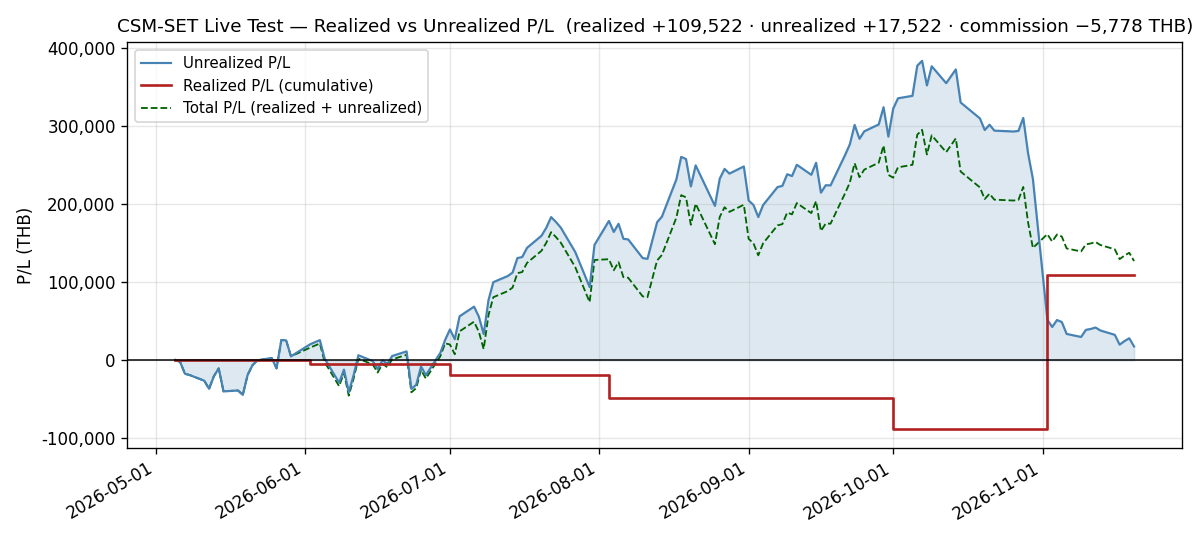
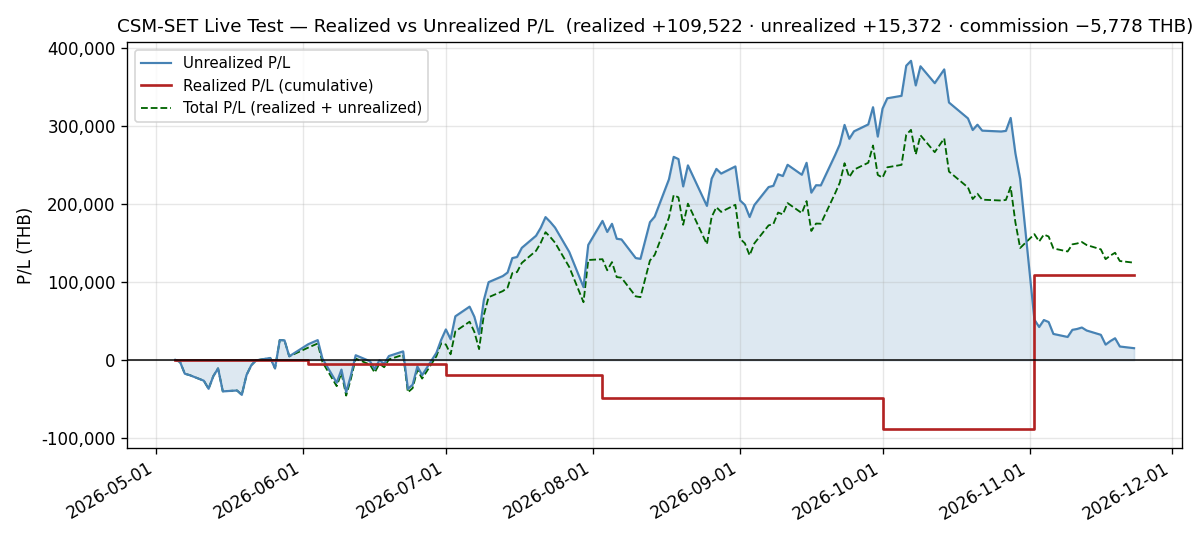
docs(live-test): add daily log for 2026-11-23 (scored session 16 of 40)
NAV 1,243,283.32 THB, -2,150.00 (-0.1726%); window -1.4956%. Six names
rose and four fell; CNT fell -18.67%, its largest one-session fall in the
panel, and INSET -8.60%. The breaker stays TRIPPED at a rolling drawdown of
-12.0412%, the deepest in the published NAV series; the regime stays BEAR.
No holiday poll banked on 2026-11-21, and the longest gap between banked
polls is now 45 h 30 m. pnl.csv row and the P/L chart regenerated; the three
NAV charts are byte-identical.

Claude-Session: https://claude.ai/code/session_01VKyqnmKmz6Hh9ErHRFMhFr

diff --git a/docs/live-test/daily/2026-11-23.md b/docs/live-test/daily/2026-11-23.md
@@ -1,0 +1,285 @@
+# Daily Log — 2026-11-23 (Monday)
+
+**As of:** 2026-11-23, Asia/Bangkok
+**Phase:** D — Final Evaluation & Documentation
+**Day:** 138 / 24 trading days remaining in 2026
+**Status:** 🟢 **SCORED — session 16 of 40 in the registered window** (`reports/2026-10-27-forward-scoring-pre-registration.md`). **NAV closes at 1,243,283.32 THB, −2,150.00 (−0.1726%) on the session and −1.4956% on NAV₀ = 1,262,159.89**, its lowest close since 2026-08-11. **Six names rose and four fell**; ⚠ **CNT fell −18.67%**, its largest one-session fall in the panel, and INSET −8.60%. 🔴 **The circuit breaker stays TRIPPED**, its rolling drawdown deepening to **−12.0412%**, the deepest in the published NAV series. 🔴 **The regime stays BEAR**; the SET rose +0.0833%. 🟢 **The fifth scheduled refresh on image `239921e2a7bd` ran clean** (211 / 0), and no bound fired. ⚠ **103 of 911 holiday polls banked** since the settfex 0.26.3 upgrade; none banked on 2026-11-21, and the longest gap is now **45 h 30 m** (Risk Note 7). Total Return on NAV is **+11.01%**.
+
+---
+
+## Execution Summary
+
+**No trades today.** The book is the one recorded from the 2026-11-02 rotation (`configs/live_portfolio.yaml` at `2f846b0`), unchanged since. Realized P/L for the session is **0.00 THB** and no commission was paid. **The breaker's safe mode acts only at a month-end evaluation**, so equity at 17.3014% of NAV creates no trade. The next evaluation is **2026-11-30** (registration §3).
+
+---
+
+## Portfolio Snapshot
+
+> 🟢 **Every figure in this section is SCORED-WINDOW data, session 16.** It is `configs/live_portfolio.yaml` at `2f846b0` repriced against the 2026-11-23 bar of `data/processed/prices_latest.parquet`, and it **equals** the `db_gateway.daily_performance` row the 18:00 refresh wrote.
+
+`Avg Cost` is the commission-inclusive per-share basis carried from `configs/live_portfolio.yaml` (4-decimal precision); `Cost Basis = shares × Avg Cost`, and `U.PL % = MV / Cost Basis − 1`.
+
+| # | Symbol | Shares | Avg Cost | Last Price | Market Value (THB) | Cost Basis (THB) | U.PL % |
+|---|--------|-------:|---------:|-----------:|--------------------:|-----------------:|-------:|
+| 1 | IRPC | 11,300 | 2.3037 | 2.18 | 24,634.00 | 26,031.81 | −5.37% |
+| 2 | HANA | 600 | 35.8070 | 45.50 | 27,300.00 | 21,484.20 | +27.07% |
+| 3 | GUNKUL | 6,100 | 2.9246 | 4.60 | 28,060.00 | 17,840.06 | +57.29% |
+| 4 | INSET | 8,400 | 3.0848 | 3.40 | 28,560.00 | 25,912.32 | +10.22% |
+| 5 | KCE | 500 | 39.0655 | 53.00 | 26,500.00 | 19,532.75 | +35.67% |
+| 6 | EPG | 3,400 | 5.9099 | 5.26 | 17,884.00 | 20,093.66 | −11.00% |
+| 7 | SMT | 4,000 | 5.8097 | 5.86 | 23,440.00 | 23,238.80 | +0.87% |
+| 8 | CNT | 3,600 | 3.3456 | 2.44 | 8,784.00 | 12,044.16 | −27.07% |
+| 9 | SPRC | 1,200 | 13.8232 | 12.45 | 14,940.00 | 16,587.84 | −9.93% |
+| 10 | SSP | 2,200 | 7.7129 | 6.82 | 15,004.00 | 16,968.38 | −11.58% |
+
+### Portfolio summary
+
+| Metric | Value |
+|--------|-------|
+| Total Cost Basis | 199,733.98 THB |
+| Total Market Value | 215,106.00 THB |
+| Unrealized P/L | +15,372.02 THB (+7.70%) |
+| Realized P/L (today) | 0.00 THB |
+| Realized P/L (cumulative, since inception) | **+109,521.83 THB** |
+| Commission paid (cumulative) | **−5,777.54 THB** |
+
+### Account summary
+
+| Metric | Value |
+|--------|-------|
+| Remaining Cash | 1,028,177.32 THB |
+| Total NAV | 1,243,283.32 THB |
+| Total Return on NAV | +11.01% |
+
+> **Cost-basis note:** Total Cost Basis is **199,733.98 THB**, equal to Σ per-symbol `shares × avg_cost` with a **0.00** delta, unchanged since the rotation.
+>
+> **Above/below cost: 5 up / 5 down**, the same names as on 2026-11-20. **CNT** (−27.07%), **SSP** (−11.58%), **EPG** (−11.00%), **SPRC** (−9.93%) and **IRPC** (−5.37%) are below; **SMT** (+0.87%) is just above.
+>
+> **Equity is 17.3014% of NAV** (215,106.00 of 1,243,283.32), down from 17.4442%. The breaker acts only at the month-end evaluation.
+>
+> **Total P/L check:** realized + unrealized = 109,521.83 + 15,372.02 = **+124,893.85 THB**, down from +127,043.85 by **2,150.00**, exactly the session's NAV change.
+
+---
+
+## Day-over-Day Change (vs Friday November 20)
+
+| Symbol | Nov 20 Close | Nov 23 Close | Change | Change % | MV Contribution (THB) |
+|--------|-------------:|-------------:|-------:|---------:|----------------------:|
+| KCE | 50.50 | 53.00 | +2.50 | +4.95% | +1,250.00 |
+| HANA | 43.60 | 45.50 | +1.90 | +4.36% | +1,140.00 |
+| SSP | 6.68 | 6.82 | +0.14 | +2.10% | +308.00 |
+| IRPC | 2.16 | 2.18 | +0.02 | +0.93% | +226.00 |
+| SPRC | 12.35 | 12.45 | +0.10 | +0.81% | +120.00 |
+| SMT | 5.84 | 5.86 | +0.02 | +0.34% | +80.00 |
+| EPG | 5.32 | 5.26 | -0.06 | -1.13% | -204.00 |
+| GUNKUL | 4.66 | 4.60 | -0.06 | -1.29% | -366.00 |
+| INSET | 3.72 | 3.40 | -0.32 | -8.60% | -2,688.00 |
+| CNT | 3.00 | 2.44 | -0.56 | -18.67% | -2,016.00 |
+| **Total** | | | | **-0.99%** | **-2,150.00** |
+
+**Breadth: 6 up, 4 down, 0 flat.**
+
+> The `Change %` on the Total row is the **market-value** change (−2,150.00 / 217,256.00 = −0.9896%), not the NAV change (−2,150.00 / 1,245,433.32 = −0.1726%). They differ by the cash in the NAV denominator, 82.56% of the prior session's NAV in safe mode.
+>
+> 🟢 **Every `Nov 20 Close` above is the published one, and the current panel agrees on all ten names**, so no held name was restated on this session.
+
+**Two names took the session: CNT and INSET lost −4,704.00 together, while the other eight gained +2,554.00.**
+
+- ⚠ **CNT −18.67% (−2,016.00)** is its largest one-session fall in the panel, which starts 2024-05-31 for CNT. It closed at its lowest since 2026-08-17, and its U.PL is −27.07%. The vendor's bar shows the session opening at 2.96 and trading as low as 2.40, on about 5.7 times CNT's median volume over the prior 63 sessions. Its earlier bars were not back-adjusted.
+- **INSET −8.60% (−2,688.00)** was the session's largest loss in THB, its largest fall since 2026-11-17. It closed at its lowest since 2026-06-11.
+- **KCE +4.95% (+1,250.00)** is its largest rise since 2026-11-04, and **HANA +4.36% (+1,140.00)** its largest since 2026-11-18.
+- **EPG −1.13% (−204.00)** closed at its lowest since 2026-06-10.
+- **NAV is at its lowest since 2026-08-11.**
+- **The book fell −0.1726% and the SET rose +0.0833%**, a **−0.2559pp** difference. It is a same-session arithmetic result for a book that is 82.70% cash, not a performance comparison (Market Context).
+
+No cause is stated for any of these moves; none was looked up.
+
+---
+
+## Market Context
+
+| Indicator | Value | Source |
+|-----------|-------|--------|
+| SET Index | 1,454.49 | tvkit (TradingView) |
+| SET Open / High / Low | 1,445.19 / 1,458.55 / 1,444.50 | tvkit |
+| SET 200-day SMA | 1,529.6008 | tvkit (TradingView) |
+| Regime Estimate | BEAR | SET −4.91% below SMA200 |
+
+> ⚠ **This is context, NOT a benchmark comparison, and it must not be read as one.**
+>
+> - **Different price bases.** `SET:SET` is a **price index**; the strategy series above is priced on **dividend-adjusted** bars (since `e04a292`, 2026-08-09). The difference is one-sided in the strategy's favour, and it is not small: measured 2026-09-11 over 2024-03-19 → 2026-09-10, the dividend adjustment is worth **+12.09 percentage points** on this universe, roughly **+4.8%/yr**.
+> - **No alpha, excess return or outperformance figure is computed anywhere in this log.** The registration's tracking error against this index is reported in Risk Note 1 as a risk metric (§5).
+
+---
+
+## Regime State
+
+- **Detected regime:** 🔴 **BEAR**, the sixteenth session. SET (1,454.49) is **below** SMA200 (1,529.6008) by −4.9105%.
+- **SMA200 position:** 1,529.6008, with the SET closing 75.11 points under it.
+- **3-month return:** −9.65% (window-sensitive — see Notes).
+- **The engine's own `RegimeDetector.detect()` also returns BEAR**: price below SMA200, and a 63-session return of **−9.15%** against its −5% threshold.
+- **No regime-driven action under the registration.** The regime filter is not one of the registered rules (§4). The SET closed −5.91% below its own EMA100 and −3.71% below its EMA200; both are reported and not applied.
+
+**The last six closes read 1,499.53 → 1,474.68 → 1,472.01 → 1,472.64 → 1,453.28 → 1,454.49.**
+
+- **Today:** a **+1.21 point, +0.0833%** session. The index is **−10.3213%** below the 2026-09-08 high.
+- **Range:** **14.05 points**, against 10.28 the prior session. The index opened at 1,445.19, reached 1,458.55, and closed 9.99 above its low of 1,444.50.
+- **Cushion rose −4.9438% → −4.9105%, a +0.0333pp step.** SMA200 rose to **1,529.6008** (+0.7371).
+- **A BEAR→BULL crossing needs the index 75.11 points higher**, +5.16% at today's SMA200.
+
+The 3-month figure moved from −10.38% to −9.65%, its start bar moving from 2026-08-18 (1,621.62) to 2026-08-19 (1,609.76).
+
+---
+
+## Sector Concentration
+
+Groupings are SET-official, as on 2026-11-02. The book is held at about 20% equity by the breaker's safe mode.
+
+| Sector | Market Value (THB) | % of NAV | % of stocks held | Limit (NAV) | Status |
+|--------|--------------------:|---------:|-----------------:|-------------|--------|
+| Energy & Utilities (ENERG) | 82,638 | 6.6468% | 38.4173% | 35% | OK on NAV |
+| Electronic Components (ETRON) | 77,240 | 6.2126% | 35.9079% | 35% | OK on NAV |
+| ICT | 28,560 | 2.2971% | 13.2772% | 35% | OK |
+| Construction Materials (CONMAT) | 17,884 | 1.4384% | 8.3140% | 35% | OK |
+| Construction Services (CONS) | 8,784 | 0.7065% | 4.0836% | — | below the 5% floor by ruling I5 |
+
+- **ETRON rose +0.2091pp to 6.2126%** on KCE, HANA and SMT. **ENERG still leads at 6.6468% of NAV** (+0.0346pp): SSP, IRPC and SPRC rose and GUNKUL fell. ICT −0.2119pp on INSET, CONS −0.1607pp on CNT, CONMAT −0.0139pp on EPG.
+- **The 35% cap is measured on NAV** (I2), and no sector is near it.
+- **As a share of the stocks held, ENERG is 38.42% and ETRON 35.91%.** The two hold 74.33% of the equity sleeve between them. This is recorded for context; it is not the registered measure.
+- **Every position is below the 5% floor**, between 0.7065% (CNT) and 2.2971% (INSET) of NAV. The breaker governs the band (I5), so **these are not deviations**.
+
+---
+
+## Risk Notes
+
+1. 🟢 **SCORED SESSION 16 OF 40.**
+
+   | Measure (registration §5) | Value |
+   |---|---|
+   | NAV₀ (2026-10-30 close) | 1,262,159.89 |
+   | NAV₁₅ (2026-11-20 close) | 1,245,433.32 |
+   | NAV₁₆ (2026-11-23 close) | 1,243,283.32 |
+   | r₁₆ = NAV₁₆ / NAV₁₅ − 1 | **−0.1726%** |
+   | Window return to date | **−1.4956%** |
+   | Max drawdown to date (running peak from NAV₀) | **−2.8566%** (2026-11-23, from the 2026-11-02 peak) |
+   | Annualized volatility (n = 16) | 11.01% |
+   | Sharpe, rf = 2% (n = 16) · rf = 0 | −2.29 · −2.10 |
+   | Tracking error vs `SET:SET` (n = 16) | 11.84% |
+
+   **Sixteen returns carry almost no information**, and annualizing them magnifies that. **No criterion is graded before the window ends** (2026-12-30), and §9's power statement applies to every figure here.
+2. 🟢 **DB — no restatement on this session.**
+   - **`daily_performance` equals this log.** The row reads **1,243,283.32, cash 1,028,177.32**, and today's `equity_curve` row agrees.
+   - **`daily_return` reads −0.1726%**, equal to this log's day-over-day change to within 1×10⁻¹⁹, because no held name was restated.
+   - `cumulative_return` and `combined_drawdown` both read −2.8477%. They are measured from `entry_date` 2026-11-02 on the basis restated for GUNKUL's ex-dividend date (the 2026-11-20 log, Risk Note 2), and they are not the scored series (§5). On the published basis the same span is −2.8566%, the max drawdown in Risk Note 1.
+3. 🔴 **CIRCUIT BREAKER — TRIPPED, threaded one session (I4).**
+   - **Procedure:** `DrawdownCircuitBreaker` with the recorded parameters (60 sessions, −10% trip, −5% recovery held 21 sessions), called with the state carried from 2026-11-20 (TRIPPED, recovery progress 0) on the published NAV series. It returns **TRIPPED**, rolling drawdown **−12.0412%**, equity fraction **0.20**, no transition.
+   - The drawdown deepened from −11.8891% on 2026-11-20, so it is again **the deepest in the published NAV series**. **Recovery needs it above −5%**, so the state does not move.
+   - The 2026-10-07 peak (1,413,483.89) is still the window's high.
+   - **Recovery** starts when the rolling drawdown rises above −5%, at NAV **1,342,809.70**. That is **99,526.38 (+8.0051%)** above today's NAV. From a book 17.30% in stocks, it needs the equity sleeve to rise about **46.27%**.
+   - **The 1,064,000 THB line** (5% below `starting_nav`) has NAV **+179,283.32** (14.42%) above it. Under the registration it is a reporting line and carries no action.
+4. 🔴 **REGIME — BEAR, the sixteenth session** (Regime State). Under the registration it changes nothing. The transition is recorded in `events/2026-11-02-regime-transition-bull-to-bear.md`.
+5. 🟢 **EXECUTION — CLOSED** by the operator's ruling of 2026-11-04: the operator places every order by hand (registration §12; `events/2026-11-03-rotation-orders-placed-as-limit-orders.md`). Nothing changed since.
+6. 🟢 **REFRESH — the fifth scheduled firing on image `239921e2a7bd` ran clean.** It started at 11:00:00Z and completed at 11:01:33Z with receipt 211 / 0, in 91.834 s.
+   - **No bound fired.** The container log since the image started holds no "Failed to fetch symbol" line, no "timed out" line and no "daily_refresh exceeded" line, and every symbol came back on attempt 1. [[TK-0657]]
+7. ⚠ **HOLIDAY POLL — 103 of 911 polls banked since the settfex 0.26.3 upgrade (11.3%); 43 of 332 on the current image. NONE BANKED ON 2026-11-21, AND THE LONGEST GAP IS NOW 45 h 30 m.**
+
+   | Window | Image | Poll runs | Banked | Failure lines |
+   |---|---|---:|---:|---|
+   | 2026-11-04T12:20:14Z → 2026-11-05T11:20:14Z | `db0cb596918c` | 47 | 7 | logged at DEBUG; 1 run after the saved log, not banked |
+   | 2026-11-05T11:26:33Z → 2026-11-13T11:56:33Z | `7e49ed4f6a87` | 386 | 37 | 348, all `FetchError status_code=401`; 1 run after the saved log, not banked |
+   | 2026-11-13T12:16:34Z → 2026-11-16T13:16:34Z | `5bf4e130cfd6` | 146 | 16 | 128, all `FetchError status_code=401`; 3 runs after the saved log, 1 banked and 2 not |
+   | 2026-11-16T13:22:10Z → 2026-11-23T10:52:10Z | `239921e2a7bd` | 332 | 43 | 289, all `FetchError status_code=401` |
+   | **Total** | | **911** | **103** | |
+
+   - 🔴 **No poll banked on Bangkok date 2026-11-21.** The gap between two banked polls ran **45 h 30 m**, from 2026-11-20 10:22Z to 2026-11-22 07:52Z. The previous longest was 30 h 00 m (2026-11-14 10:16Z → 2026-11-15 16:16Z). The 2026-11-20 firing read the calendar banked at the gap's start, with 21 closures, and no other refresh fell inside the gap.
+   - **The stale-table warning continues.** The container logged *"committed 2026 fallback table is STALE vs the live calendar — promote: 2026-12-16"* at the 2026-11-20 and 2026-11-23 firings. The running image predates `941f406`, which added 2026-12-16 to the committed table on 2026-11-20 on the operator's go; the warning stops when that commit reaches an image. The banked calendar, which the refresh reads, has the date.
+   - **Outside csm-set:** the platform's own market calendar still read 2026-12-16 as a trading day when checked on 2026-11-23, against a known closure that it does report. The finding was posted to `session:pm` on #461 on 2026-11-20, and it has no reply.
+   - **How banked polls are counted.** The observer's record covers the second image's first 99 runs (6 banked). After it ended on 2026-11-07T12:33:49Z, a run with no failure line counts as banked.
+   - **Runs whose log was lost** are counted when the banked calendar file decides their outcome. This is the rule adopted in the 2026-11-17 log. One run, 2026-11-16T11:46:34Z, cannot be decided and is left out.
+   - **Positive control:** the latest run before the 18:00 firing with no failure line, 09:52:10Z, matches the `captured_at` of 09:52:10Z that the firing read.
+   - **Exposure:** polls banked per Bangkok date since the upgrade (2026-11-04: 2, 2026-11-05: 5, 2026-11-06: 4, 2026-11-07: 2, 2026-11-08: 7, 2026-11-09: 3, 2026-11-10: 3, 2026-11-11: 6, 2026-11-12: 6, 2026-11-13: 8, 2026-11-14: 3, 2026-11-15: 1, 2026-11-16: 11, 2026-11-17: 10, 2026-11-18: 11, 2026-11-19: 6, 2026-11-20: 8, 2026-11-21: 0, 2026-11-22: 2, 2026-11-23: 5 to the 18:00 firing).
+8. 🟢 **INFRA — no change since 2026-11-20.**
+   - The container has run image `239921e2a7bd` since 2026-11-16 at 20:21:26 BKK. This session's refresh is its fifth.
+   - **Rollback image kept:** `rollback-20261116` → `5bf4e130cfd6`.
+   - **Not yet deployed:** `941f406` (the committed holiday table, Risk Note 7). It ships with the next image build; none is planned in this log.
+   - **The missing-receipt alert** (TK-0657, closed) runs on HOME (#464). This session's report landed at 18:01 BKK, before the 22:30 BKK due time.
+9. 🟢 **Bands, by ruling.** The 35% cap is measured on NAV, where ENERG leads at 6.6468% (I2). Every position is below the 5% floor (I5). [[TK-0279]]
+10. ⚠ **The uncredited dividend total is unchanged at 9,049.00 THB**: KCE 1,560.00, INSET 2,100.00, MGC 2,208.00, FORTH 795.00, IRPC 2,264.00, GUNKUL 122.00.
+    - That is **0.73% of NAV** and **7.25%** of the +124,893.85 total P/L.
+    - The registration reports dividends beside each score and does not credit them (§8).
+11. ⚠ **DOC — the `csm-set-daily-log` skill's `daily_return` guidance remains stale.** Its Step 3 still calls the field *"an open defect, not yet fixed in code"*; it was fixed 2026-09-02. **Fifty-second log to carry this.**
+12. **Open decisions — answered for the scored window, by the registration's §8 and §12 and the 2026-10-31 rulings.**
+
+    | Decision | Registered for the window |
+    |---|---|
+    | EMA100 | per holding |
+    | Bands | bind at construction, on the names being traded; the breaker governs them in safe mode (I5) |
+    | Sector cap | measured on NAV, checked on the scaled book (I2) |
+    | Breaker state | advances every trading session (I4) |
+    | Price history | the published NAV, frozen at publication |
+    | Dividends | not credited, reported beside each score |
+    | Fill rule | the operator places every order by hand (amendment of 2026-11-04, registration §12) |
+
+---
+
+## Notes
+
+- **Scheduled refresh completed via APScheduler with zero failures.**
+  - `"Scheduled daily_refresh completed"` at **2026-11-23T11:01:33Z** (18:01 BKK).
+  - It was the 18:00 cron firing (`cron[... day_of_week='mon-fri', hour='18', minute='0']`, started 11:00:00Z).
+  - Receipt: `symbols_fetched=211, failures=0, duration_seconds=91.834, held_symbols_fetched=10, held_symbols_failed=0, retry_attempts_used=0, index_fetched=true`, corroborated by `results/.tmp/last_refresh.json`.
+  - The held phase ended `requested=10 recovered=10 still_failing=0` at 11:00:07Z, and the universe phase `requested=201 recovered=201 still_failing=0` at 11:01:13Z. The gateway accepted the daily report (`201`) at 11:01:33Z.
+  - The firing's own log line gives the next run as 2026-11-24 18:00 +07.
+- **No manual trigger, checked on the access log's fields.**
+  - Every access record since the container started was parsed, and its `method` and `path` fields were tested for a `POST` to a path under `/api/v1/scheduler/run`. There were 19,734 access records, all `GET /health`, and no `POST` of any kind.
+  - **Positive control:** the same parse finds a synthetic access record with method `POST` and path `/api/v1/scheduler/run/daily_refresh` appended to a copy of the log.
+- **The log holds no ERROR since the container started.** Of 27,378 JSON records, 27,373 are INFO and five are WARNING: the startup notice that `CSM_API_KEY` is unset (2026-11-16T13:21:39Z), and four calendar warnings (two at 2026-11-19T17:52:11Z, and the stale-table warning at the 2026-11-20 and 2026-11-23 firings).
+- **The container runs image `239921e2a7bd`**, its fifth scheduled refresh.
+  - `Created` 2026-11-16T13:21:26Z, `StartedAt` 13:21:28Z, `RestartCount` 0. `FinishedAt` is unset (0001-01-01) because this container has never stopped.
+  - The host has not rebooted since 2026-10-06 (`uptime -s` 2026-10-06 10:46:02).
+- **`SET:THCOM` was fetched with 600 bars again.**
+- **The price panel and the prior log agree on all ten names.**
+- **The panel's row count fell 893 → 892.** Every row still carries a 09:55 Bangkok stamp, the column count is unchanged at **211**, and no session date is duplicated.
+- **Row-integrity checks pass.** `db_csm_set.equity_curve` holds **exactly one row per trading day at `00:00:00+00`** (137 rows, 137 dates, none off midnight), and today's row equals `daily_performance.total_value`.
+- **`configs/live_portfolio.yaml` is unchanged** since `2f846b0`.
+- **The P/L identity holds.** `realized_cum + unrealized − (NAV − starting_nav)` = 109,521.83 + 15,372.02 − 123,283.32 = **1,610.53 THB**, unchanged.
+- **Every figure was verified rather than asserted.**
+  - Σ position market value equals Total Market Value exactly (215,106.00).
+  - **Total NAV (1,243,283.32) equals `db_gateway.daily_performance.total_value` to the satang**, and cash equals the YAML's 1,028,177.32.
+  - The contributions sum to the session's NAV change (−2,150.00) exactly.
+  - The sector table sums to Total Market Value exactly.
+  - Σ per-symbol cost basis matches Total Cost Basis with a **0.00** delta, and the position count is 10.
+  - All money arithmetic used `Decimal` with explicit half-up rounding, and so did SMA200.
+- **Realized P/L and commission ledger, unchanged.**
+  - Realized cumulative **+109,521.83 THB**: 2026-06-02 −4,351.87 · 2026-07-01 −14,964.06 · 2026-08-03 −29,775.45 · 2026-10-01 −39,365.29 · 2026-11-02 +197,978.50.
+  - Commission cumulative **−5,777.54 THB**: 05-05 1,611.15 · 06-02 984.44 · 06-04/05 169.09 · 07-01 287.83 · 08-03 682.65 · 10-01 201.81 · 11-02 1,840.57.
+- **Capital events to date, unchanged.** `starting_nav` 1,120,000 after 1,000,000 → 1,100,000 (2026-06-04, +100,000) → 1,120,000 (2026-08-03, +20,000).
+- **Every superlative was computed, and each names its window.**
+
+  | Claim | Window | Source |
+  |---|---|---|
+  | CNT's fall and low; INSET's fall and low; KCE's and HANA's rises; EPG's low | the whole panel, which starts 2024-06-05 for nine of these names and 2024-05-31 for CNT | the panel |
+  | NAV's lowest since 2026-08-11 | the published NAV series, from 2026-05-04 | `daily_performance` |
+  | CNT's volume against its prior 63 sessions | the vendor's 70 most recent daily bars | tvkit |
+- **3-month return figure is window-sensitive.** −9.65% is measured over the trailing 66 bars from today's close (start bar 2026-08-19, 1,609.76). The engine's 63-session figure is −9.15%. The regime estimate uses the SMA200 only.
+- **Follow-ups for the next session (Tuesday 2026-11-24 18:00 +07).**
+
+  | | Item | Level |
+  |---|---|---|
+  | (a) | the breaker state, threaded once | TRIPPED; rolling drawdown −12.0412%; recovery above 1,342,809.70 |
+  | (b) | the regime | BEAR; 75.11 points to a BULL crossing |
+  | (c) | the holiday-poll rate and the longest gap | banked ÷ run under the one rule; 45 h 30 m |
+  | (d) | #461, and the 2026-12-16 closure in the platform's calendar | `session:pm`'s |
+  | (e) | the next monthly evaluation | 2026-11-30 |
+  | (f) | `941f406` reaching the image | the next image build |
+
+  **The six follow-ups from 2026-11-20 are closed above or elsewhere:**
+  - (a) Risk Note 3; (b) Risk Note 4; (c) Risk Note 7;
+  - (d) Risk Note 7: posted to #461 on 2026-11-20, with no reply;
+  - (e) the evaluation date is unchanged;
+  - (f) Risk Note 7: committed in `941f406` on the operator's go of 2026-11-20, not yet in the running image.
+- **Calendar.** 2026-11-23 was a trading session.
+  - The 18:00 firing read the banked SET holiday calendar (`results/.tmp/set_holidays.json`) at `captured_at 2026-11-23T09:52:10Z`, with 21 closures.
+  - The banked calendar lists the remaining 2026 closures as **2026-12-07**, **2026-12-10**, **2026-12-16** and **2026-12-31**. The next session is **2026-11-24**.
+  - No trading hours are stated anywhere in this log.
+- Data fetched via tvkit (TradingView, free tier): all 10 held-symbol prices from the 18:00 BKK scheduled-cron refresh; SET Index context anchored explicitly to the 2026-11-23 bar. ⚠ **The vendor back-adjusts a symbol's entire history on an ex-dividend date**, so any prior-session price quoted here is the vendor's *current* view of that session and not necessarily what was published at the time.

diff --git a/docs/live-test/graphs/README.md b/docs/live-test/graphs/README.md
@@ -1,9 +1,9 @@
 # Live-Test Charts — how these are generated
 
-_🟢 **The three NAV charts are on the October month-end, 2026-10-30; the P/L chart is newer, 2026-11-20.** The three **NAV** charts
+_🟢 **The three NAV charts are on the October month-end, 2026-10-30; the P/L chart is newer, 2026-11-23.** The three **NAV** charts
 (`equity_curve`, `drawdown`, `monthly_returns`) were regenerated on 2026-10-30 from `nav_actual.csv` /
 `nav_twr.csv` extended to **121 points** (2026-05-04 → 2026-10-30). `pnl_realized_unrealized.png` was
-regenerated on 2026-11-20 from `pnl.csv` (**136 rows**, through 2026-11-20; its newest realized step is the 2026-11-02 rotation's). ⚠ **The September rows of the two NAV CSVs
+regenerated on 2026-11-23 from `pnl.csv` (**137 rows**, through 2026-11-23; its newest realized step is the 2026-11-02 rotation's). ⚠ **The September rows of the two NAV CSVs
 come from `db_gateway.daily_performance`, not `equity_curve`** — IRPC's 2026-09-09 restatement rewrote the
 `equity_curve` rows it would otherwise have supplied; see the 2026-09-30 History entry. **The October rows
 are the published daily-log NAVs**, which equal `equity_curve` on every October session; `daily_performance`
@@ -262,14 +262,24 @@ restatement has rewritten `equity_curve` rows inside the month being appended, *
 | `monthly_returns.png` | May **+0.33%** · Jun **+1.44%** · Jul **+9.53%** · Aug **+5.68%** · Sep **+2.90%** · Oct **−6.90%** (no flow in September or October, so the TWR and actual-NAV figures agree for both) |
 | **August bar is the TWR figure** | **+5.68%**, NOT the reported +7.40% and NOT the ex-injection +5.77%. Feeding `nav_actual.csv` instead reproduces the documented failure mode — **Jun +11.62%** and Aug +7.40% |
 | June bar vs the June review | must read **+1.44%**, not +11.62% |
-| `pnl_realized_unrealized.png` *(the 2026-11-20 PNG, through 11-20)* | realized **+109,521.83** · unrealized **+17,522.02** · commission **−5,777.54** THB; the realized line is **flat except at 2026-06-02, 2026-07-01, 2026-08-03, 2026-10-01 and 2026-11-02** — **five** steps, the last one upward. *(The 2026-11-19 PNG read the same realized and commission with unrealized +28,102.02 at 135 points; the 2026-11-18 PNG read the same realized and commission with unrealized +24,460.02 at 134 points; the 2026-11-17 PNG read the same realized and commission with unrealized +19,929.02 at 133 points; the 2026-11-16 PNG read the same realized and commission with unrealized +32,518.02 at 132 points; the 2026-11-13 PNG read the same realized and commission with unrealized +38,044.02 at 131 points; the 2026-11-12 PNG read the same realized and commission with unrealized +41,863.02 at 130 points; the 2026-11-11 PNG read the same realized and commission with unrealized +40,003.02 at 129 points; the 2026-11-10 PNG read the same realized and commission with unrealized +38,865.02 at 128 points; the 2026-11-09 PNG read the same realized and commission with unrealized +29,761.02 at 127 points; the 2026-11-06 PNG read the same realized and commission with unrealized +33,639.02 at 126 points; the 2026-11-05 PNG read the same realized and commission with unrealized +48,895.02 at 125 points; the 2026-11-04 PNG read the same realized and commission with unrealized +51,445.02 at 124 points; the 2026-11-03 PNG read the same realized and commission with unrealized +42,526.02 at 123 points; the 2026-11-02 PNG read the same realized and commission with unrealized +51,932.02 at 122 points; the 2026-10-30 PNG read realized −88,456.67 · unrealized +232,227.03 · commission −3,936.97 at 121 points, with four steps; the 2026-10-29 PNG read the same realized and commission with unrealized +264,919.03 at 120 points; the 2026-10-28 PNG read the same realized and commission with unrealized +310,400.03 at 119 points; the 2026-10-27 PNG read the same realized and commission with unrealized +293,787.03 at 118 points; the 2026-10-26 PNG read the same realized and commission with unrealized +293,003.03 at 117 points; the 2026-10-22 PNG read the same realized and commission with unrealized +294,101.03 at 116 points; the 2026-10-21 PNG read the same realized and commission with unrealized +301,696.03 at 115 points; the 2026-10-20 PNG read the same realized and commission with unrealized +294,904.03 at 114 points; the 2026-10-19 PNG read the same realized and commission with unrealized +309,815.03 at 113 points; the 2026-10-15 PNG read the same realized and commission with unrealized +330,143.03 at 112 points; the 2026-10-14 PNG read the same realized and commission with unrealized +372,572.03 at 111 points; the 2026-10-12 PNG read the same realized and commission with unrealized +354,949.03 at 110 points; the 2026-10-09 PNG +376,567.03 at 109; the 2026-10-08 PNG +352,021.03 at 108; the 2026-10-07 PNG +383,551.03 at 107; the 2026-10-06 PNG +377,303.03 at 106; the 2026-10-05 PNG +338,709.03 at 105; the 2026-10-02 PNG +335,559.03 at 104; the 2026-10-01 PNG +322,278.03 at 103.)* *(The 2026-08-31 PNG read:* realized **−49,091.38** · unrealized **+248,232.35** · commission **−3,735.16** THB; the realized line is **flat except at 2026-06-02, 2026-07-01 and 2026-08-03** — **three** steps.) *(The superseded 2026-08-28 render showed −49,091.38 / +239,078.35 at 79 points; the 2026-08-27 one showed −49,091.38 / +245,069.35 at 78 points; the 2026-08-26 one showed −49,091.38 / +232,605.35 at 77 points; the 2026-08-25 one showed −49,091.38 / +197,671.35 at 76 points; the 2026-08-24 one showed −49,091.38 / +210,441.35 at 75 points; the 2026-08-21 one showed −49,091.38 / +249,619.35 at 74 points; the 2026-08-20 one showed −49,091.38 / +222,599.35 at 73 points; the 2026-08-19 one showed −49,091.38 / +257,693.35 at 72 points; the 2026-08-18 one showed −49,091.38 / +260,527.35 at 71 points; the 2026-08-17 one showed −49,091.38 / +231,713.35 at 70 points; the 2026-08-14 one −49,091.38 / +183,951.35 at 69 points; the 2026-08-12 one −49,091.38 / +129,844.35 at 67 points; the 2026-08-01 one −19,315.93 / +147,665.89 / −3,052.51 and only two steps.)* |
-| `pnl.csv` last row *(the CSV and the P/L PNG are in sync — see the header)* | 2026-11-20: realized **+109,521.83** · unrealized **+17,522.02** · total **+127,043.85** · commission **5,777.54** THB; **136 rows**, matching `equity_curve`'s 136 **in row count only** *(↻ this row read 2026-08-31 / 80 rows until 2026-10-02: the September daily runs extended the CSV without updating it; it is updated with each session's History entry since)* — the values diverge historically after the KCE, INSET, MGC *and* FORTH restatements (see the header caveat) |
+| `pnl_realized_unrealized.png` *(the 2026-11-23 PNG, through 11-23)* | realized **+109,521.83** · unrealized **+15,372.02** · commission **−5,777.54** THB; the realized line is **flat except at 2026-06-02, 2026-07-01, 2026-08-03, 2026-10-01 and 2026-11-02** — **five** steps, the last one upward. *(The 2026-11-20 PNG read the same realized and commission with unrealized +17,522.02 at 136 points; the 2026-11-19 PNG read the same realized and commission with unrealized +28,102.02 at 135 points; the 2026-11-18 PNG read the same realized and commission with unrealized +24,460.02 at 134 points; the 2026-11-17 PNG read the same realized and commission with unrealized +19,929.02 at 133 points; the 2026-11-16 PNG read the same realized and commission with unrealized +32,518.02 at 132 points; the 2026-11-13 PNG read the same realized and commission with unrealized +38,044.02 at 131 points; the 2026-11-12 PNG read the same realized and commission with unrealized +41,863.02 at 130 points; the 2026-11-11 PNG read the same realized and commission with unrealized +40,003.02 at 129 points; the 2026-11-10 PNG read the same realized and commission with unrealized +38,865.02 at 128 points; the 2026-11-09 PNG read the same realized and commission with unrealized +29,761.02 at 127 points; the 2026-11-06 PNG read the same realized and commission with unrealized +33,639.02 at 126 points; the 2026-11-05 PNG read the same realized and commission with unrealized +48,895.02 at 125 points; the 2026-11-04 PNG read the same realized and commission with unrealized +51,445.02 at 124 points; the 2026-11-03 PNG read the same realized and commission with unrealized +42,526.02 at 123 points; the 2026-11-02 PNG read the same realized and commission with unrealized +51,932.02 at 122 points; the 2026-10-30 PNG read realized −88,456.67 · unrealized +232,227.03 · commission −3,936.97 at 121 points, with four steps; the 2026-10-29 PNG read the same realized and commission with unrealized +264,919.03 at 120 points; the 2026-10-28 PNG read the same realized and commission with unrealized +310,400.03 at 119 points; the 2026-10-27 PNG read the same realized and commission with unrealized +293,787.03 at 118 points; the 2026-10-26 PNG read the same realized and commission with unrealized +293,003.03 at 117 points; the 2026-10-22 PNG read the same realized and commission with unrealized +294,101.03 at 116 points; the 2026-10-21 PNG read the same realized and commission with unrealized +301,696.03 at 115 points; the 2026-10-20 PNG read the same realized and commission with unrealized +294,904.03 at 114 points; the 2026-10-19 PNG read the same realized and commission with unrealized +309,815.03 at 113 points; the 2026-10-15 PNG read the same realized and commission with unrealized +330,143.03 at 112 points; the 2026-10-14 PNG read the same realized and commission with unrealized +372,572.03 at 111 points; the 2026-10-12 PNG read the same realized and commission with unrealized +354,949.03 at 110 points; the 2026-10-09 PNG +376,567.03 at 109; the 2026-10-08 PNG +352,021.03 at 108; the 2026-10-07 PNG +383,551.03 at 107; the 2026-10-06 PNG +377,303.03 at 106; the 2026-10-05 PNG +338,709.03 at 105; the 2026-10-02 PNG +335,559.03 at 104; the 2026-10-01 PNG +322,278.03 at 103.)* *(The 2026-08-31 PNG read:* realized **−49,091.38** · unrealized **+248,232.35** · commission **−3,735.16** THB; the realized line is **flat except at 2026-06-02, 2026-07-01 and 2026-08-03** — **three** steps.) *(The superseded 2026-08-28 render showed −49,091.38 / +239,078.35 at 79 points; the 2026-08-27 one showed −49,091.38 / +245,069.35 at 78 points; the 2026-08-26 one showed −49,091.38 / +232,605.35 at 77 points; the 2026-08-25 one showed −49,091.38 / +197,671.35 at 76 points; the 2026-08-24 one showed −49,091.38 / +210,441.35 at 75 points; the 2026-08-21 one showed −49,091.38 / +249,619.35 at 74 points; the 2026-08-20 one showed −49,091.38 / +222,599.35 at 73 points; the 2026-08-19 one showed −49,091.38 / +257,693.35 at 72 points; the 2026-08-18 one showed −49,091.38 / +260,527.35 at 71 points; the 2026-08-17 one showed −49,091.38 / +231,713.35 at 70 points; the 2026-08-14 one −49,091.38 / +183,951.35 at 69 points; the 2026-08-12 one −49,091.38 / +129,844.35 at 67 points; the 2026-08-01 one −19,315.93 / +147,665.89 / −3,052.51 and only two steps.)* |
+| `pnl.csv` last row *(the CSV and the P/L PNG are in sync — see the header)* | 2026-11-23: realized **+109,521.83** · unrealized **+15,372.02** · total **+124,893.85** · commission **5,777.54** THB; **137 rows**, matching `equity_curve`'s 137 **in row count only** *(↻ this row read 2026-08-31 / 80 rows until 2026-10-02: the September daily runs extended the CSV without updating it; it is updated with each session's History entry since)* — the values diverge historically after the KCE, INSET, MGC *and* FORTH restatements (see the header caveat) |
 | The August regeneration *(**done** 2026-08-12, **superseded** by the 2026-08-14, 2026-08-17, 2026-08-18, 2026-08-19, 2026-08-20, 2026-08-21, 2026-08-24, 2026-08-25, 2026-08-26, 2026-08-27, 2026-08-28 and then the 2026-08-31 render)* | ✅ satisfied — the current PNG title reads `realized -49,091 · unrealized +248,232 · commission −3,735 THB`, the series ends 2026-08-31 at 80 points, and the realized line steps **three** times. Verified by eye against the rendered image, not only from the generator's stdout |
 | Only ONE PNG may change on a P/L regeneration | ✅ `gen_pnl_chart.py:118` writes `pnl_realized_unrealized.png` and nothing else. Checksum the four PNGs before and after: the three NAV charts must be **byte-identical** and keep their 2026-08-01 mtimes. Verified 2026-08-14, 2026-08-17, 2026-08-18, 2026-08-19, 2026-08-20, 2026-08-21, 2026-08-24, 2026-08-25, 2026-08-26, 2026-08-27, 2026-08-28 and 2026-08-31 — only the P/L PNG's hash moved on all twelve |
 | P/L reconciliation | `realized_cum + unrealized − (NAV − capital)` = **1,610.53** from 2026-11-02 (**1,610.47** for 2026-10-01 → 2026-10-30, **1,610.27** for 2026-08-03 → 2026-09-30, **1,609.61** for 2026-07-01 → 2026-07-31; every era since 2026-05-05 is listed in §Reconciliation residual, corrected 2026-10-31), and constant *within* each era; the 2026-11-02 step is **+0.06** (SPRC +0.02, SSP −0.08 against their all-in costs) and the 2026-10-01 step **+0.20**, CNT's: 4-dp `avg_cost` rounding both times. A *drifting* residual means a realisation was missed; the one-time **+0.66** step at the rotation is 4-dp `avg_cost` rounding — see above |
 | `commission_cum` | rises **only on the 8 fill dates** (05-05, 06-02, 06-04, 06-05, 07-01, 08-03, 10-01, **11-02**); a rise on any other day means a non-trading day was credited with a fill |
 
 ## History
+
+**`pnl.csv` extended through 2026-11-23** on 2026-11-23, appending the **2026-11-23** row — scored session 16,
+a no-trade session. `realized_cum` (+109,521.83) and `commission_cum` (5,777.54) are unchanged, so the realized
+line takes no step. Unrealized falls +17,522.02 → **+15,372.02** and `total_pl` +127,043.85 → **+124,893.85**
+(−2,150.00, exactly the session's NAV change); `total_pl` is at its lowest since 2026-08-11 in this CSV.
+The reconciliation residual holds at **1,610.53**.
+**`pnl_realized_unrealized.png` was regenerated in the same session**, so the two artifacts end together at
+**137 points**; the four PNGs were checksummed (md5) before and after, and the three NAV charts are
+byte-identical (`drawdown` 7df00897…, `equity_curve` 5ab54261…, `monthly_returns` 89088737…), with only the
+P/L chart's hash moving (7deb4560… → **d4c1e7cc…**). Checked against the rendered image.
 
 **`pnl.csv` extended through 2026-11-20** on 2026-11-20, appending the **2026-11-20** row — scored session 15,
 a no-trade session. `realized_cum` (+109,521.83) and `commission_cum` (5,777.54) are unchanged, so the realized
